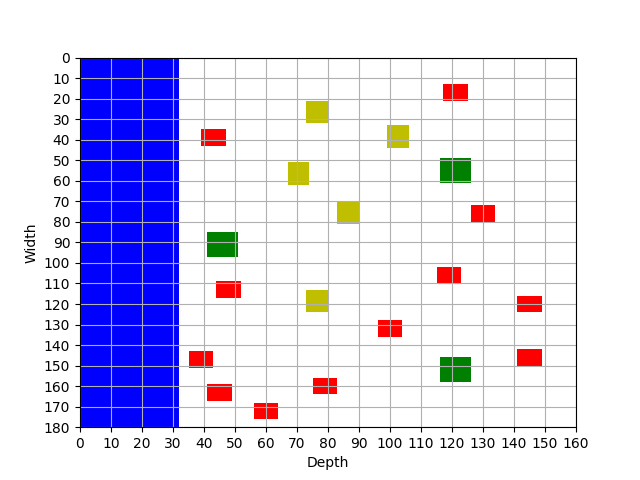
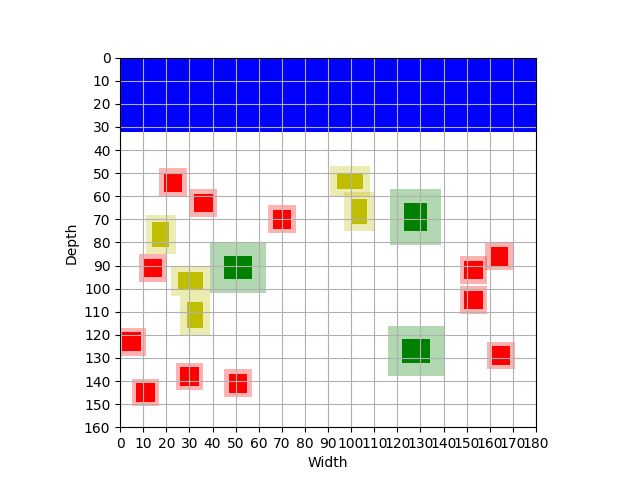
clean up randomize and added rotation

diff --git a/code/algorithms/randomize.py b/code/algorithms/randomize.py
@@ -1,14 +1,12 @@
 import random
 import copy
 from code.classes.mandatory import MandatoryFreeSpace
-# from IPython import embed
 
-def random_empty_cell(grid):
-	""" 
-	Picks a random empty cell from grid.
+
+def define_empty_cells(grid):
 	"""
-
-	print("Perfoming picking empty cell")
+	Returns a list of all empty cells on grid.
+	"""
 
 	empty_cells = []
 
@@ -16,81 +14,64 @@ def random_empty_cell(grid):
 		for cell in row:
 			if cell.type == None:
 				empty_cells.append(cell)
+	
+	return empty_cells
 
-	# print(f"empty_cells: {empty_cells}")
-	random_cell = random.choice(empty_cells)
-	print(f"random_start_cell: {random_cell}")
 
+def random_empty_cell(grid):
+	"""
+	Returns a random empty cell from grid.
+	"""
+
+	print("Performing picking empty cell")
+
+	random_cell = random.choice(define_empty_cells(grid))
 	return random_cell
+
 
 def random_assignment_house(grid, house, random_cell):
 	""" 
-	Assigns house to grid, based on coordinates of random cell.
+	Assigns house to grid, based on coordinates of random cell. Returns the new 
+	grid.
 	"""
 
-	# embed()
-
-	print("Performing random_assignment_house")
+	print("Performing random assignment of house")
 	
 	# Retrieve coordinates random starting cell (top-left)
 	random_cell_x = random_cell.x_coordinate
 	random_cell_y = random_cell.y_coordinate
 
-	# Set house coordinates
-	house_coordinates = {
-		'bottom_left': (random_cell_x, random_cell_y + house.depth), 
-		'bottom_right': (random_cell_x + house.width, random_cell_y + house.depth), 
-		'top_left': (random_cell_x, random_cell_y),
-		'top_right': (random_cell_x + house.width, random_cell_y)
-		}
+	# Set house coordinates (excluding and including mandatory free space)
+	house_coordinates = set_house_coordinates(house, random_cell_x, random_cell_y)
+	house_coordinates_mandatory_free_space = set_house_coordinates_mandatory_free_space(house, house_coordinates)
 
-	# Set house coordinates including mandatory free space
-	house_coordinates_mandatory_free_space = {
-		'bottom_left': (house_coordinates['bottom_left'][0] - house.min_free, house_coordinates['bottom_left'][1] + house.min_free), 
-		'bottom_right': (house_coordinates['bottom_right'][0] + house.min_free, house_coordinates['bottom_right'][1] + house.min_free), 
-		'top_left': (house_coordinates['top_left'][0] - house.min_free, house_coordinates['top_left'][1] - house.min_free),
-		'top_right': (house_coordinates['top_right'][0] + house.min_free, house_coordinates['top_right'][1] - house.min_free)
-		}
+	# Define all cells of possible house location (excluding and including mandatory free space)
+	house_cells = define_object_cells(grid, house_coordinates)
+	house_cells_mandatory_free_space = define_object_cells(grid, house_coordinates_mandatory_free_space)
 
-	# Check for all cells of possible house location if occupied 
 	occupied = False
 
-	for row in range(random_cell_y, random_cell_y + house.width):
-		for column in range(random_cell_x, random_cell_x + house.depth):
+	# Check for all cells of possible house location if occupied 
+	for current_cell in house_cells:
+		if current_cell.type != None:
+			occupied = True
 
-			current_cell = grid.cells[row, column]
-			
-			if current_cell.type != None:
-				occupied = True
-	
-	# Iterate over all grid cells of house including mandatory free space
-	for row in range((house_coordinates['top_left'][1] - house.min_free), (house_coordinates['bottom_right'][1] + house.min_free)):
-		for column in range((house_coordinates['top_left'][0] - house.min_free), (house_coordinates['bottom_right'][0] + house.min_free)):
-
-			current_cell = grid.cells[row, column]
-
-			# Ensure every cell of mandatory free space is empty (not the mandatory free space of another house)
-			if current_cell.type not in [None, 'Water']:
-				occupied = True
+	# Check for all cells of possible mandatory free space location if occupied
+	for current_cell in house_cells_mandatory_free_space:
+		if current_cell.type in ['single', 'bungalow', 'maison']: #AANPASSEN?
+			occupied = True
 	
 	# If all cells of possible location are still availabe 
 	if occupied == False:
 
 		# Set cells to according house type
-		for row in range(random_cell_y, random_cell_y + house.depth):
-			for column in range(random_cell_x, random_cell_x + house.width):
-				current_cell = grid.cells[row, column]
-				current_cell.type = house.type
+		for current_cell in house_cells:
+			current_cell.type = house.type
 
-		# Iterate over all grid cells of house including mandatory free space
-		for row in range((house_coordinates['top_left'][1] - house.min_free), (house_coordinates['bottom_right'][1] + house.min_free)):
-			for column in range((house_coordinates['top_left'][0] - house.min_free), (house_coordinates['bottom_right'][0] + house.min_free)):
-
-				current_cell = grid.cells[row, column]
-
-				# Set all grid cells mandatory free space of house to according type
-				if current_cell.type != house.type:
-					current_cell.type = MandatoryFreeSpace(house)
+		# Set cells to according mandatory free space type
+		for current_cell in house_cells_mandatory_free_space:
+			if current_cell.type != house.type:
+				current_cell.type = MandatoryFreeSpace(house)
 
 		# Save coordinates
 		house.coordinates = house_coordinates
@@ -101,8 +82,75 @@ def random_assignment_house(grid, house, random_cell):
 
 	return grid
 
+def random_rotation_choice():
+	"""
+	Returns a random rotation.
+	"""
+
+	rotation = ['horizontal', 'vertical']
+	random_rotation = random.choice(rotation)
+
+	return random_rotation
+
+def set_house_coordinates(house, random_cell_x, random_cell_y):
+	"""
+	Returns a dictionary of house coordinates (excluding mandatory free space).
+	"""
+
+	random_rotation = random_rotation_choice()
+
+	if random_rotation == 'horizontal':
+		width = house.width
+		depth = house.depth
+	else:
+		width = house.depth
+		depth = house.width
+
+	house_coordinates = {
+		'bottom_left': (random_cell_x, random_cell_y + depth), 
+		'bottom_right': (random_cell_x + width, random_cell_y + depth), 
+		'top_left': (random_cell_x, random_cell_y),
+		'top_right': (random_cell_x + width, random_cell_y)
+		}
+	
+	return house_coordinates
+
+
+def set_house_coordinates_mandatory_free_space(house, house_coordinates):
+	"""
+	Returns a dictionary of house coordinates (including mandatory free space).
+	"""
+
+	house_coordinates_mandatory_free_space = {
+		'bottom_left': (house_coordinates['bottom_left'][0] - house.min_free, house_coordinates['bottom_left'][1] + house.min_free), 
+		'bottom_right': (house_coordinates['bottom_right'][0] + house.min_free, house_coordinates['bottom_right'][1] + house.min_free), 
+		'top_left': (house_coordinates['top_left'][0] - house.min_free, house_coordinates['top_left'][1] - house.min_free),
+		'top_right': (house_coordinates['top_right'][0] + house.min_free, house_coordinates['top_right'][1] - house.min_free)
+		}
+
+	return house_coordinates_mandatory_free_space
+
+
+def define_object_cells(grid, coordinates):
+	"""
+	Returns a list of cells for a specific object.
+	"""
+
+	object_cells = []
+
+	for row in range(coordinates['top_left'][1], coordinates['bottom_right'][1]):
+		for column in range(coordinates['top_left'][0], coordinates['bottom_right'][0]):
+
+			current_cell = grid.cells[row, column]
+			object_cells.append(current_cell)
+
+	return object_cells
+
 
 def random_assignment(grid):
+	"""
+	Places all houses randomly on grid. Returns the new grid.
+	"""
 
 	# Copy empty grid 
 	copy_grid = copy.deepcopy(grid)
@@ -119,10 +167,10 @@ def random_assignment(grid):
 				new_grid = random_assignment_house(copy_grid, house, random_cell)
 				house.placed = True
 
-				print(f"Updated grid:")
-				new_grid.print_grid()
 			except:
 				print("Error")
 				pass
+
+	print("All houses placed succesfully")
 
 	return new_grid
